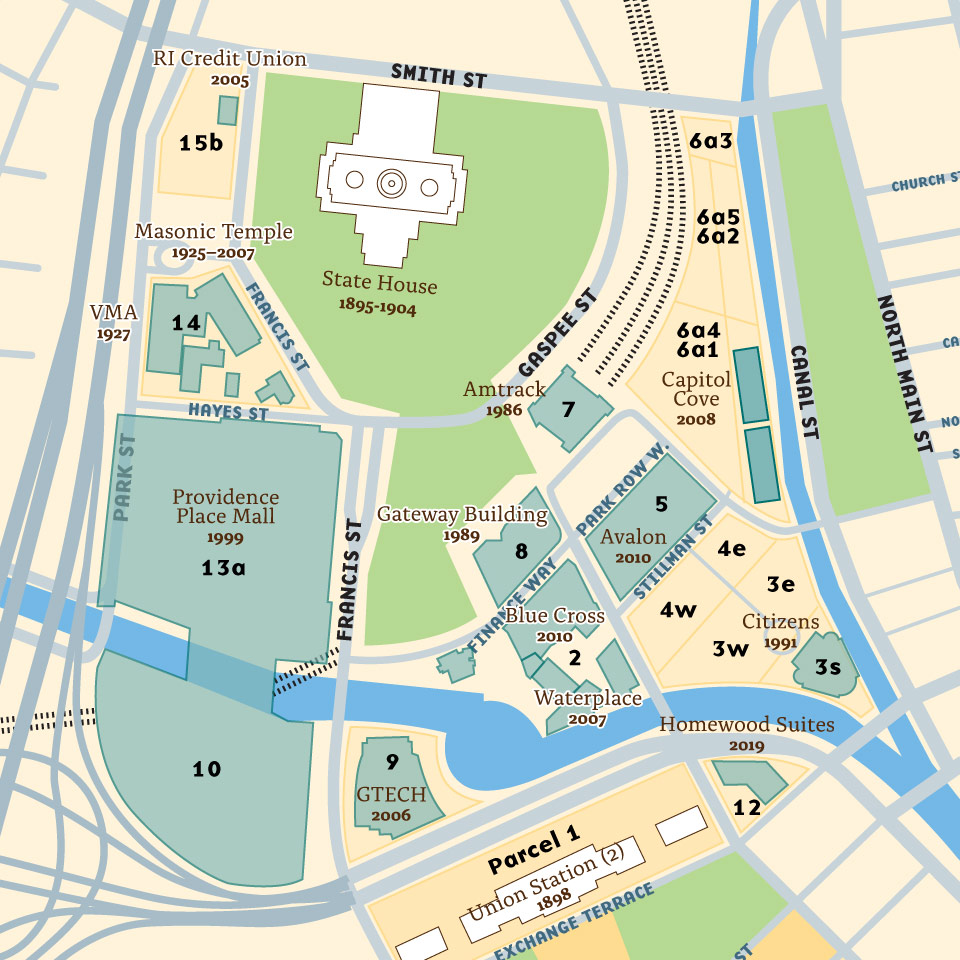
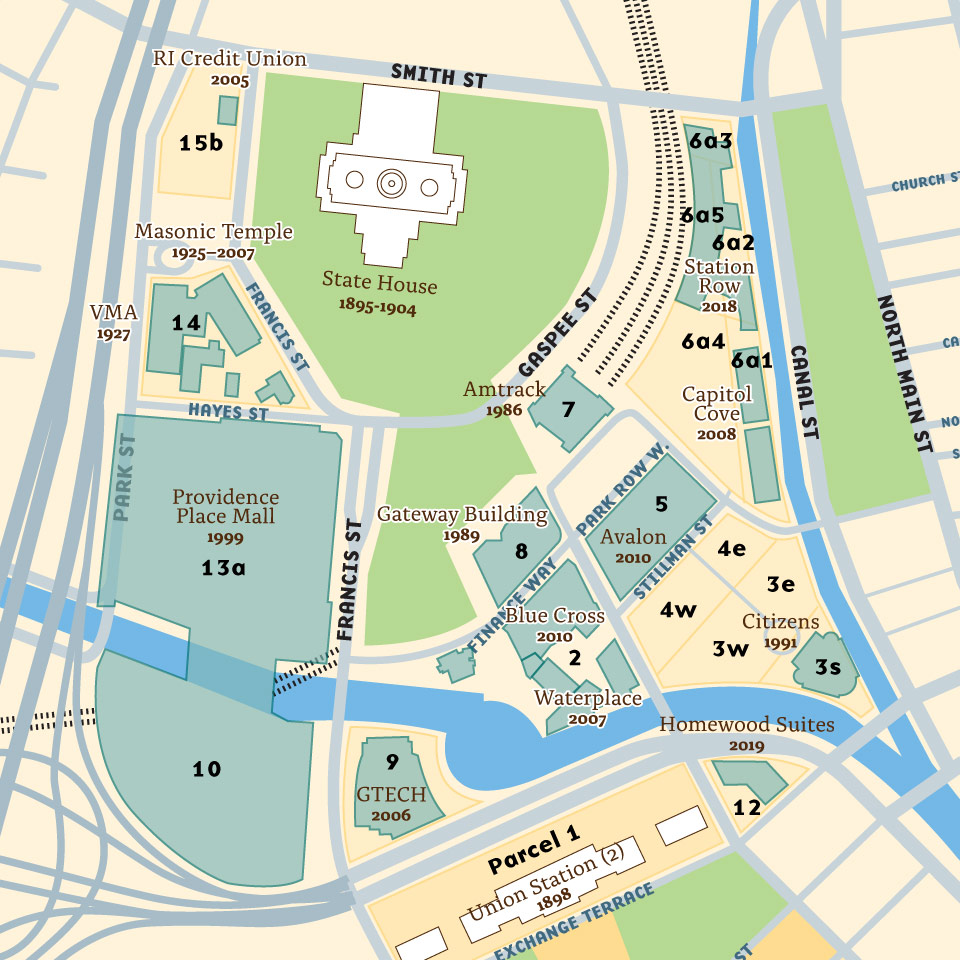
Updates to Capital Center parcels

Changed region(s): [[0.6875, 0.125, 0.8125, 0.5312]]

diff --git a/_property/capital-center-aerial-pvd.md b/_property/capital-center-aerial-pvd.md
@@ -88,4 +88,4 @@ For these views, here is a list of iconic architecture and their build or demoli
 + Barely visible, to the right of the Gateway Building and behind Avalon at Center Place is the Amtrack Station, built 1982–1986
 + Commanding the right center is Avalon at Center Place, a U-shaped residential building, built 1989–1992
 
-Not yet present: [Waterplace Towers]({% link _property/waterplace-towers.md %}) built 2006–2007, the [Blue Cross Blue Shield Tower]({% link _property/blue-cross-tower.md %}) built 2008–2009, and [Homewood Suites]({% link _property/homewood-suites.md %}) built 2017–2019 on the triangular parcel, visible in the far right bottom. 
+Not yet present: [Waterplace Towers]({% link _property/waterplace-towers.md %}) built 2006–2007, the [Blue Cross Blue Shield Tower]({% link _property/blue-cross-tower.md %}) built 2008–2009, [One Park Row West]({% link _property/capital-center-parcel-6.md %}) built 2005–2009, [Homewood Suites]({% link _property/homewood-suites.md %}) built 2017–2019 on the triangular parcel, visible in the far right bottom, and [Station Row Apartments]({% link _property/capital-center-parcel-6b.md %}) built 2016–2018.
